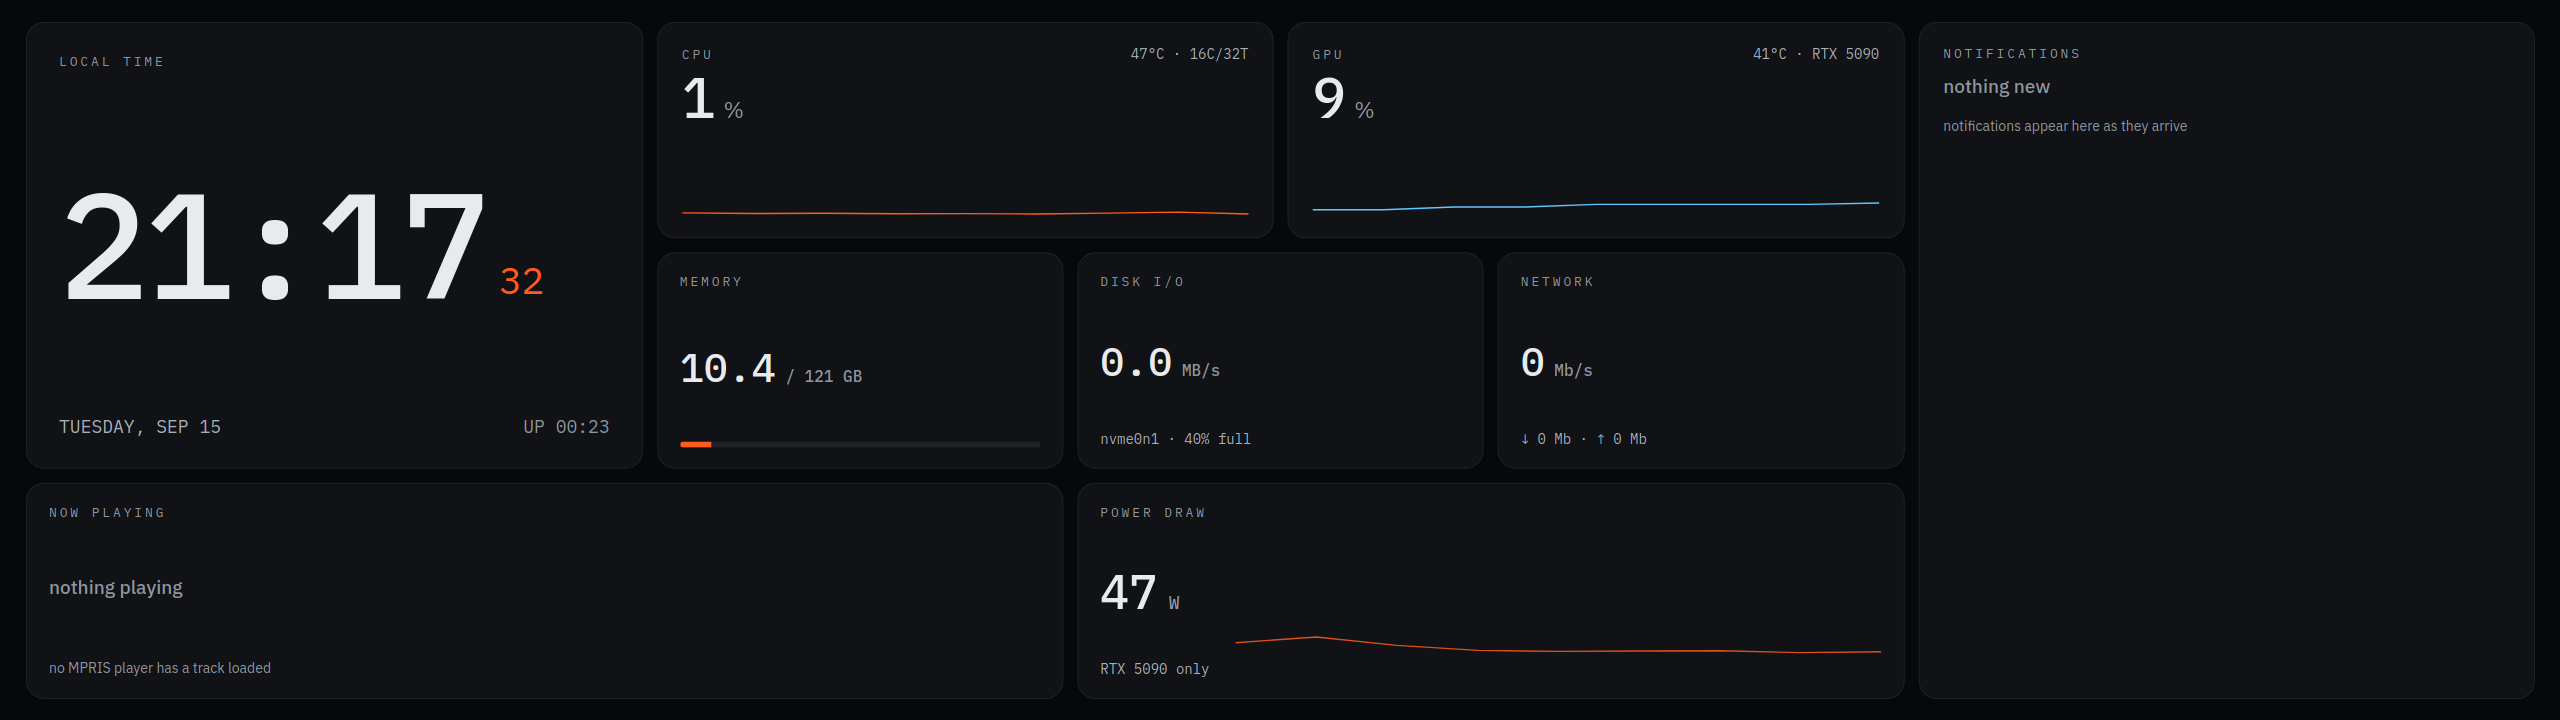
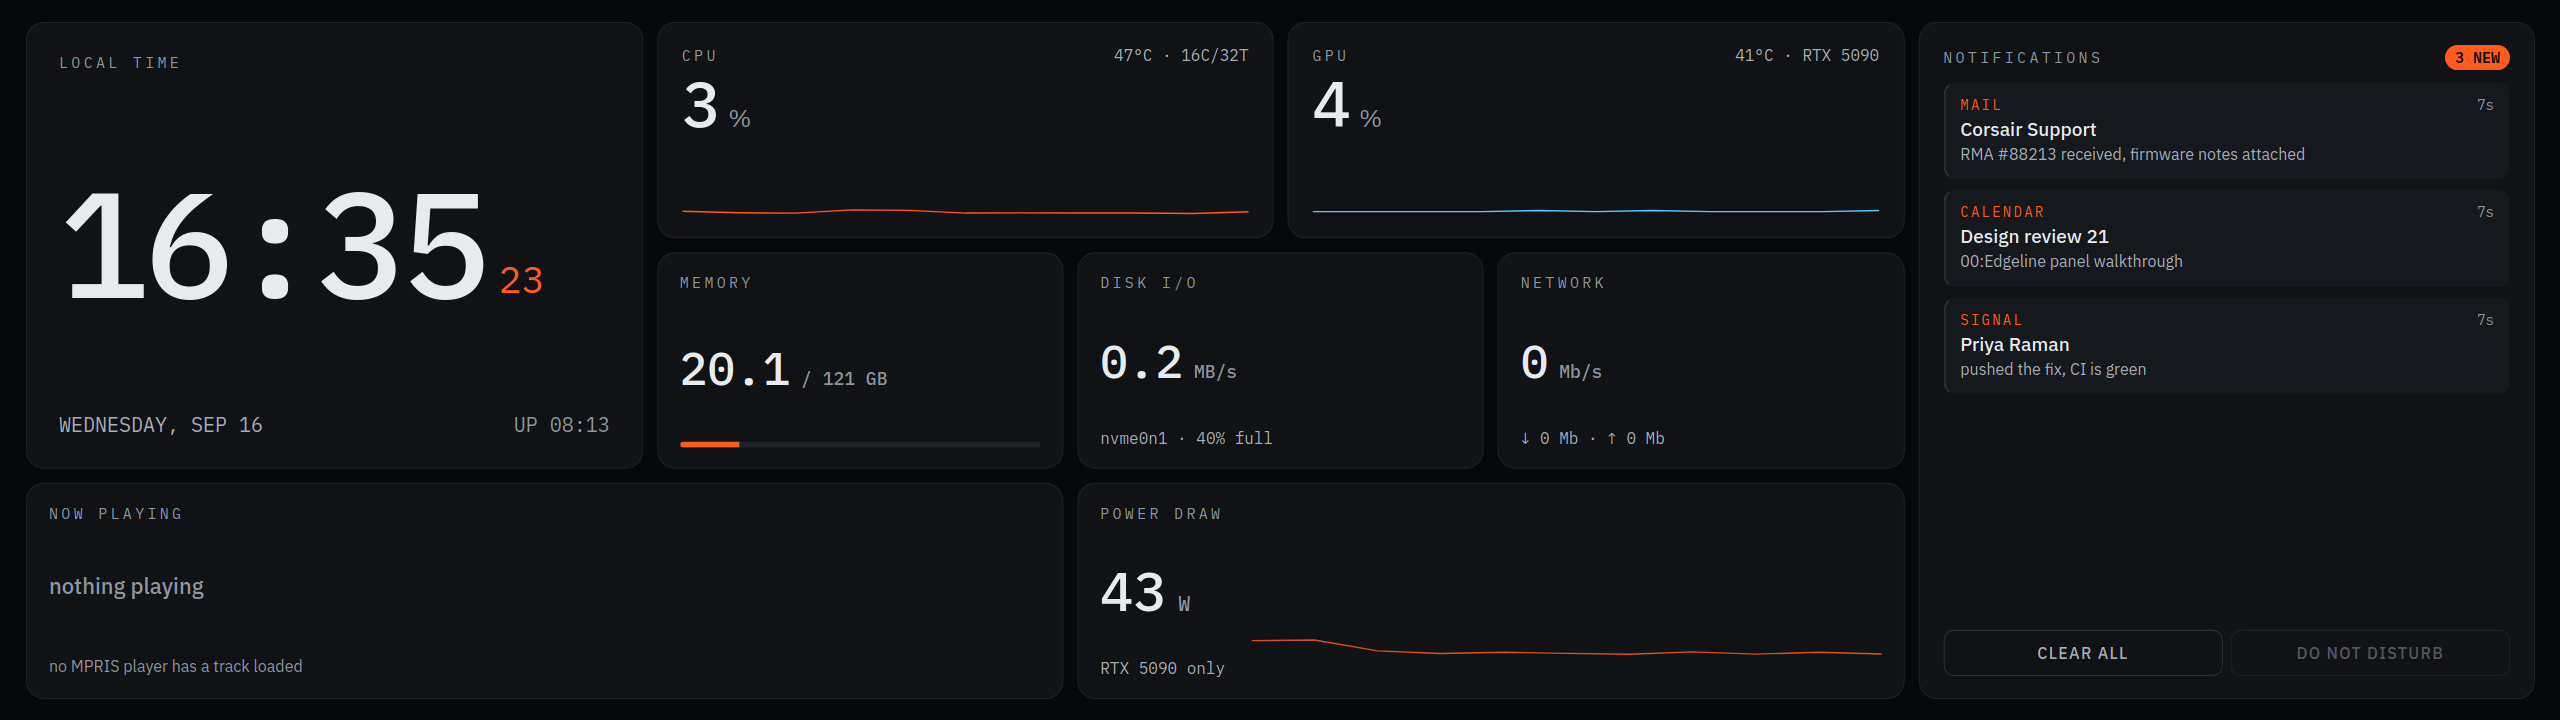
Larger text on the panel tiles, clock digits unchanged
Every tile's text is about fifteen percent larger: kickers, numbers,
units, notification rows and the media and power tiles. The clock's
digits and seconds keep their size. Both pages checked at 2560x720 with
three notifications showing; nothing clips.

diff --git a/ui/renderer/dashboard.css b/ui/renderer/dashboard.css
@@ -132,16 +132,16 @@ html, body {
 .r2 { grid-row: span 2 }    .r3 { grid-row: span 3 }
 
 .kicker {
-  font-family: var(--mono); font-size: 13px; letter-spacing: .22em;
+  font-family: var(--mono); font-size: 15px; letter-spacing: .22em;
   color: var(--kicker); flex: none;
 }
 .head { display: flex; justify-content: space-between; align-items: center; flex: none; }
-.meta { font-family: var(--mono); font-size: 14px; color: var(--text2); }
+.meta { font-family: var(--mono); font-size: 16px; color: var(--text2); }
 
 /* A tile with no source says so in the tile. Nothing here ever invents a
    plausible figure. */
-.none { font-size: 19px; font-weight: 500; color: var(--kicker); line-height: 1.3; }
-.why { font-size: 14px; color: var(--kicker); line-height: 1.35; margin-top: 6px; }
+.none { font-size: 22px; font-weight: 500; color: var(--kicker); line-height: 1.3; }
+.why { font-size: 16px; color: var(--kicker); line-height: 1.35; margin-top: 6px; }
 
 .spark { width: 100%; height: 100%; }
 .spark polyline { fill: none; stroke-width: var(--stroke); stroke: var(--accent); }
@@ -162,7 +162,7 @@ html, body {
 }
 .time .foot {
   display: flex; justify-content: space-between; align-items: baseline;
-  font-family: var(--mono); font-size: 18px; color: var(--text2);
+  font-family: var(--mono); font-size: 20px; color: var(--text2);
 }
 .time .foot .up { color: var(--kicker); }
 
@@ -170,26 +170,26 @@ html, body {
 
 .card.load { gap: 6px; padding: 22px 24px; }
 .load .value { display: flex; align-items: baseline; gap: 8px; }
-.load .num { font-family: var(--mono); font-size: 56px; line-height: 1; font-weight: 500; }
-.load .unit { font-size: 22px; color: var(--kicker); }
+.load .num { font-family: var(--mono); font-size: 64px; line-height: 1; font-weight: 500; }
+.load .unit { font-size: 25px; color: var(--kicker); }
 .load .chart { flex: 1; min-height: 0; display: flex; align-items: flex-end; }
 
 /* Two GPUs share one tile rather than taking a column from something else:
    the grid is exactly full at twelve by three. */
 .gpus { flex: 1; min-height: 0; display: flex; flex-direction: column; gap: 8px; }
-.gpus.two .num { font-size: 36px; }
+.gpus.two .num { font-size: 41px; }
 .gpu-row { flex: 1; min-height: 0; display: flex; flex-direction: column; gap: 2px; }
 .gpu-row .name {
-  font-size: 13px; color: var(--text2);
+  font-size: 15px; color: var(--text2);
   white-space: nowrap; overflow: hidden; text-overflow: ellipsis;
 }
 
 /* ------------------------------------------------------ memory, disk, net */
 
 .card.stat { justify-content: space-between; padding: 20px 22px; }
-.stat .big { font-family: var(--mono); font-size: 40px; line-height: 1; font-weight: 500; }
-.stat .big .unit { font-size: 16px; color: var(--kicker); }
-.stat .sub { font-family: var(--mono); font-size: 14px; color: var(--text2); }
+.stat .big { font-family: var(--mono); font-size: 46px; line-height: 1; font-weight: 500; }
+.stat .big .unit { font-size: 18px; color: var(--kicker); }
+.stat .sub { font-family: var(--mono); font-size: 16px; color: var(--text2); }
 .stat .bar { height: 6px; border-radius: 999px; background: var(--track); overflow: hidden; }
 .stat .fill { height: 100%; background: var(--accent); transition: width .3s ease; }
 
@@ -200,15 +200,15 @@ html, body {
   width: 92px; height: 92px; border-radius: 12px; flex: none; box-sizing: border-box;
   background: var(--art); border: 1px solid var(--art-line);
   display: flex; align-items: center; justify-content: center; text-align: center;
-  font-family: var(--mono); font-size: 11px; color: var(--kicker); letter-spacing: .1em;
+  font-family: var(--mono); font-size: 12px; color: var(--kicker); letter-spacing: .1em;
 }
 .media .body { flex: 1; min-width: 0; display: flex; flex-direction: column; gap: 8px; }
 .media .title {
-  font-size: 21px; font-weight: 500;
+  font-size: 24px; font-weight: 500;
   white-space: nowrap; overflow: hidden; text-overflow: ellipsis;
 }
 .media .by {
-  font-size: 15px; color: var(--text2);
+  font-size: 17px; color: var(--text2);
   white-space: nowrap; overflow: hidden; text-overflow: ellipsis;
 }
 .media .bar { height: 4px; border-radius: 999px; background: var(--track); overflow: hidden; }
@@ -218,7 +218,7 @@ html, body {
   width: 48px; height: 48px; border-radius: 50%; box-sizing: border-box;
   border: 1px solid var(--btn-line); background: var(--btn-bg); color: var(--text2);
   display: flex; align-items: center; justify-content: center;
-  font-family: var(--mono); font-size: 15px;
+  font-family: var(--mono); font-size: 17px;
 }
 .media .btn.play { background: var(--accent); border-color: var(--accent); color: var(--on-accent); font-weight: 600; }
 
@@ -226,16 +226,16 @@ html, body {
 
 .card.power { flex-direction: row; align-items: center; gap: 26px; padding: 20px 22px; }
 .power .left { display: flex; flex-direction: column; justify-content: space-between; height: 100%; flex: none; }
-.power .big { font-family: var(--mono); font-size: 48px; line-height: 1; font-weight: 500; }
-.power .big .unit { font-size: 18px; color: var(--kicker); }
-.power .sub { font-family: var(--mono); font-size: 14px; color: var(--text2); }
+.power .big { font-family: var(--mono); font-size: 55px; line-height: 1; font-weight: 500; }
+.power .big .unit { font-size: 20px; color: var(--kicker); }
+.power .sub { font-family: var(--mono); font-size: 16px; color: var(--text2); }
 .power .chart { flex: 1; height: 100%; min-width: 0; display: flex; align-items: flex-end; }
 
 /* ----------------------------------------------------------- notifications */
 
 .card.notify { gap: 12px; padding: 22px 24px; }
 .notify .badge {
-  font-family: var(--mono); font-size: 13px; font-weight: 600;
+  font-family: var(--mono); font-size: 15px; font-weight: 600;
   color: var(--on-accent); background: var(--accent);
   border-radius: 999px; padding: 3px 10px;
 }
@@ -245,15 +245,15 @@ html, body {
   background: var(--item); border: 1px solid var(--item-line); border-left: 2px solid var(--item-edge);
 }
 .notify .item .top { display: flex; justify-content: space-between; gap: 10px; margin-bottom: 4px; }
-.notify .item .app { font-family: var(--mono); font-size: 12px; letter-spacing: .16em; color: var(--app); }
-.notify .item .when { font-family: var(--mono); font-size: 12px; color: var(--kicker); }
-.notify .item .title { font-size: 17px; font-weight: 500; line-height: 1.25; margin-bottom: 2px; }
-.notify .item .text { font-size: 14px; color: var(--text2); line-height: 1.35; }
+.notify .item .app { font-family: var(--mono); font-size: 14px; letter-spacing: .16em; color: var(--app); }
+.notify .item .when { font-family: var(--mono); font-size: 14px; color: var(--kicker); }
+.notify .item .title { font-size: 19px; font-weight: 500; line-height: 1.25; margin-bottom: 2px; }
+.notify .item .text { font-size: 16px; color: var(--text2); line-height: 1.35; }
 .notify .actions { flex: none; display: flex; gap: 8px; }
 .notify .actions div {
   flex: 1; text-align: center; padding: 12px 0;
   border: 1px solid var(--btn-line); border-radius: 10px;
-  font-size: 14px; font-weight: 500; color: var(--text2); letter-spacing: .08em;
+  font-size: 16px; font-weight: 500; color: var(--text2); letter-spacing: .08em;
 }
 /* An action the agent cannot perform is shown, but not as a live button. */
 .notify .actions .off { opacity: .45; }
